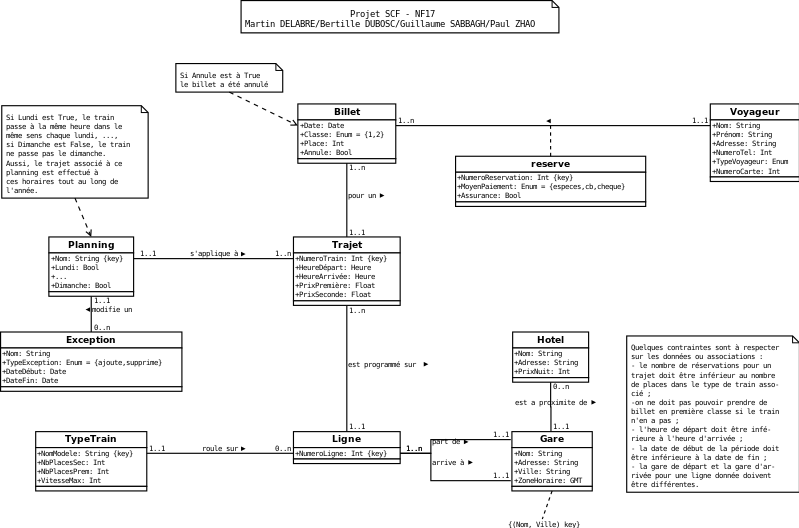
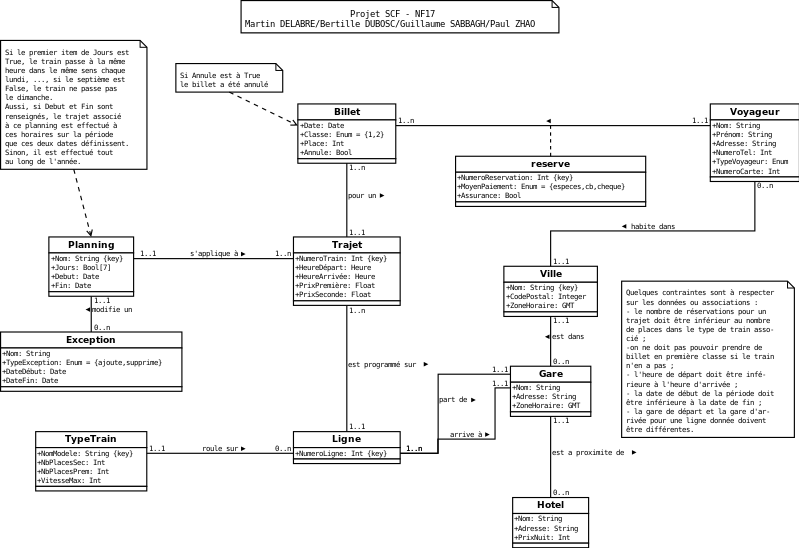
Modification MCD et NdC

diff --git a/README.md b/README.md
@@ -13,29 +13,102 @@ vim model/db_info.php # N'importe quel autre éditeur de texte fonctionne aussi
 # Préremplir la BDD en exécutant sql/populate.sql
 ```
 
-## MCD
+## Note de clarification
+### Contexte du projet
+La SCF nous demande de mettre en place un système pour gérer ses gares, ses lignes, ses trains et la planification des trajets. Elle veut qu’il soit accessible aussi pour ses usager⋅e⋅s afin de réserver des billets et de consulter les hôtels à proximité de la gare d’arrivée, entre autres besoins. De plus, elle veut pouvoir obtenir par le biais de ce système des statistiques sur les trajets réservés grâce à celui-ci.
 
+### Objectifs et livrables de l’étude
+Nous proposons de construire une base de données pour formaliser et stocker les informations nécessaires à la bonne marche de ce système. Nous livrerons aussi une application de démonstration qui permet d’interroger cette base de données de façon sûre et intuitive. Les requêtes passées par cette interface permettront d’enrichir la base de données en ajoutant des informations mais aussi de modifier ou de supprimer celles-ci et de les afficher ou de les agréger pour en faire des statistiques.
+
+### Moyens mis en œuvre
+Ces moyens sont avant tout humains. À cette note de clarification est joint un *product backlog* qui renseigne la quantité de travail nécessaire pour aboutir au système attendu.
+
+### Détails du système
+#### Liste de classes
+La SCF nous a indiqué ses besoins en termes de gares, de trains et de voyageurs. Pour pouvoir implémenter ces entités dans une base de données, il faut relever ce qui les identifie et quelles informations sont pertinentes. Ainsi, nous avons vu que les éléments suivants sont plus riches en informations et ne dépendent d’aucun autre :
+* les gares ;
+* les types de trains ;
+* les voyageur⋅euse⋅s.
+Comme toutes les gares ont, selon l’énoncé de la SCF, un nom, une adresse, une ville et une zone horaire, on peut créer un patron de gare, une Idée de gare au sens de Platon. C’est une classe dont on créera plusieurs instances que la SCF renseignera.
+
+La SCF veut aussi pouvoir manipuler d’autres types d’objets, qui sont définis à partir de ceux renseignés ci-dessus. Ce sont :
+* les lignes (définies par l’association entre deux gares et un type de train accepté) ;
+* les trajets (qui associent à une ligne un sens, des horaires, un prix et un numéro) ;
+* un planning (une fréquence dans la semaine sur une période donnée qui s’applique à un ou des trajets) ;
+* les réservations (des conteneurs qui regroupent plusieurs billets achetés en même temps et par le même moyen de paiement par un⋅e même usager⋅e) ;
+* les billets (qui associent une date, une classe et une place à un trajet et qui font partie d'une réservation).
+Ce sont aussi des classes puisqu’on veut pouvoir en créer plusieurs instances toutes calquées sur un modèle bien précis, mais elles sont dérivées des premières et reposent sur des associations avec celles-ci ou avec les premières classes secondaires de la liste.
+
+#### Choix techniques
+Lors du recueil des besoins, la SCF a laissé entendre que tous ses trains étaient sans arrêt. Nous nous appuierons sur cette donnée pour définir simplement une ligne en tant qu'association entre une gare de départ et une gare d'arrivée.
+
+La SCF voulait pouvoir changer les plannings des trains sur des jours spéciaux. Nous considérons que ces jours sont spéciaux pour tous les trajets et que ce sont donc les plannings qui sont modifiés. Si l’exception supprime une date, aucun des trajets reliés à ce planning n’aura lieu à cette date. Si elle ajoute une date, les trajets seront effectués même si cette date est en-dehors de la période ou tombe un jour de la semaine où ce trajet n’est pas effectué normalement. Avec ces choix, pour définir un trajet exceptionnel sur des horaires différents, il faut créer un trajet pour cet horaire, y associer un planning vide et les dates d’exception concernées.
+
+La SCF souhaite qu'un⋅e usager⋅e puisse annuler son billet ou le modifier pour partir à un autre jour. Nous considérons qu'une telle modification est en faite la suite d'une annulation et de la commande d'un autre billet. Nous ne prévoyons donc pas de fonctionnalité particulière.
+
+Pour éviter d'avoir des données redondantes, et puisqu'une ville ne peut être dans deux fuseaux horaires différents, nous créerons aussi une table pour les villes. De cette façon, deux gares desservant une même ville ne pourront avoir des zones horaires différentes.
+
+Enfin, et même si cela sort des prérogatives de la SCF, nous avons intégré les hôtels à notre modèle. Ce sont simplement l’association d’une adresse, d’un prix pour la nuit et d’une gare de référence. Cela étant, les taxis et les informations sur les transports publics changent trop rapidement, la SCF ne pourra pas les maintenir. Nous jugeons que les intégrer ne serait pas pertinent ou même possible dans une base de données.
+Si notre système contient toutes les informations listées ci-dessus, il est alors possible de déployer les fonctions souhaitées par la SCF à savoir :
+* tenue à jour des gares, lignes, trains et itinéraire pour leur usage interne ;
+* consultation des horaires, recherche de trajets, réservation ou annulation de billets pour les usager⋅e⋅s ;
+* calcul de statistiques sur les trains, pour toutes les personnes intéressées.
+
+## Product backlog
+|Rendu	|Priorité	|Tâches	|No de semaine	|Temps de travail   |
+|-------|-----------|-------|---------------|-------------------|
+|P1	|1	|Définition des fonctions et des classes requises	                                    |1	|2  |
+|	|2	|Rédaction de la note de clarification.	                                                |1	|1  |
+|	|3	|Élaboration du product backlog.	                                                    |1	|1  |
+|	|4	|Création du modèle conceptuel de données.	                                            |1	|2  |
+|P2	|5	|Transformation du MCD en MLD.                                                          |2	|2,5|
+|P3	|6	|Création d’une base de données.                                                        |3  |1  |
+|	|7	|Création des tables avec les attributs repérés dans le MLD.	                        |3	|1  |
+|	|8	|Ajout des contraintes sur les données.                                                 |3	|1  |
+|	|9	|Ajout de données dans les tables en vue de tests.                                      |3	|2  |
+|	|10	|Test du fonctionnement de la BDD                                                       |3	|2  |
+|	|11	|Création des requêtes pour consulter les trajets correspondant aux besoin des usagers.	|4	|3  |
+|	|12	|Création des requêtes pour réserver un billet.                                         |4	|2  |
+|	|13	|Test des requêtes créées.	                                                            |4	|2  |
+|	|14	|Création des requêtes pour supprimer des gares, types de trains, lignes, trains et trajets.	|5	|2    |
+|	|15	|Création des requêtes pour modifier ou annuler un billet.	                            |5	|3  |
+|	|16	|Création des requêtes pour s’assurer que le train ne se remplit pas au-delà de sa capacité.	|5	|2    |
+|	|17	|Création des requêtes pour mettre à jour le statut des voyageurs.	                    |6	|2  |
+|	|18	|Création des requêtes pour la gestion des dates d'exception.	                        |6	|3  |
+|	|19	|Création des requêtes pour empêcher ou faire payer les modifications de billets.	    |6	|3  |
+|	|20	|Création des requêtes pour afficher les hôtels à proximité.	                        |7	|2  |
+|	|21	|Création les requêtes pour obtenir des statistiques sur le fonctionnement de la société.	|7	|4   |
+|	|22	|Test des requêtes créées.	                                                            |7	|2  |
+|P4	|23	|Étude des bases de donné non-relationnelles.	                                        |8 et 9   |   |
+|	|24	|Création de la base de données non-relationnelles.	                                    |9 à 11   |   |
+|	|25	|Test de la base de données créée.                                                      |11	|4  |
+|P5	|26	|Création de l’interface pour la SCF.	                                                |12	|5  |
+|	|27	|Création de l’interface pour l’utilisateur.	                                        |12	|6  |
+|	|28	|Création de l’interface de statistiques.	                                            |13	|4  |
+|	|29	|Test des interfaces.	                                                                |13	|4  |
+|	|30	|Finalisation et soumission des applications.	                                        |13	|2  |
+
+
+## Modèle conceptuel de données
+Des besoins de la SCF et des interprétations que nous avons explicitées ci-dessus, nous avons construit le modèle de données suivant :
 ![UML](https://raw.githubusercontent.com/bertille-ddp/NF17/master/uml/MCD.png)
 
-## Note de clarification
-Plop
+## Modèle logique de données
+Il se traduit en un ensemble de tables, que nous pourront créer dans la base de données.
 
-
-## MLD
 Nous avons souligné les attributs non clés qui doivent être non nuls.
-
-```
-Ville(#Nom: string, CP: integer, _ZoneHoraire_: integer) avec CP clé
-Gare(#Nom: string, #Ville=>Ville.Nom, _Adresse_: string)
-Hotel(#NomH: string, #Ville=>Gare.Ville, _Adresse_: string, _NomG_=>Gare.Nom, PrixNuit: unsigned integer) avec (Adresse, Ville) clé
-TyeTrain(#Nom: string, _nbPlacesPrem_: unsigned integer, _nbPlacesSec_: unsigned integer, _vitesseMax_: unsigned integer)
+```markdown
+Ville(#Nom: string, CP: integer, __ZoneHoraire__: integer) avec CP clé
+Gare(#Nom: string, #Ville=>Ville.Nom, __Adresse__: string)
+Hotel(#NomH: string, #Ville=>Gare.Ville, __Adresse__: string, __NomG__=>Gare.Nom, PrixNuit: unsigned integer) avec (Adresse, Ville) clé
+TyeTrain(#Nom: string, __nbPlacesPrem__: unsigned integer, __nbPlacesSec__: unsigned integer, __vitesseMax__: unsigned integer)
 Ligne(#Numero: unsigned integer, NomGareDep=>Gare.Nom, VilleGareDep=>Gare.Ville, NomGareArr=>Gare.Nom, VilleGareArr=>Gare.Ville, ModeleTrain=>TypeTrain.Nom) avec (NomGareDep, VilleGareDep, NomGareArr, VilleGareArr, ModeleTrain) clé
-Planning(#Nom: string, Jours: boolean array, Debut: date, Fin: date) avec (Jours, Debut, Fin) clé
+Planning(#Nom: string, Jours: boolean array, Debut: date, Fin: date) avec (Jours, Debut, Fin) unique
 Exception(#Id: unsigned integer, Nom: string, Planning=>Planning.Nom, Ajoute: boolean, DateDebut: date, DateFin: date) avec (Planning, DateDebut, DateFin) clé et (Nom, Planning) clé
-Trajet(#Numero: unsigned int, Ligne=>Ligne.Numero, HeureDepart: time, HeureArrivee: time, PrixPrem: float, _PrixSec_: float, _Planning_=>Planning.nom) avec (HeureDepart, Ligne) et (HeureArrivee, Ligne) clés
-Voyageur(#Id: unsigned int, Nom: string, Prenom: string, NumeroTel: numeric, _TypeVoyageur_: string{'Occasionnel', 'Argent', 'Or', 'Platine'}, NumeroCarte: numeric, Adresse: string, Ville: string) avec (Nom, Prenom, Adresse, Ville) clé et NumeroCarte et NumeroTel uniques s'ils existent
-Reservation(#Numero: unsigned int, _Voyageur_=>Voyageur.id, _Assurance_: boolean, _MoyenPaiement_: string{'CB', 'Chèque', 'Espèces'})
-Billet(#Numero: int, Trajet=>Trajet.Numero, Date: date, _Classe_: int{1, 2}, Place: unsigned int, Annule: boolean, Reservation=>Reservation.Numero) avec (Trajet, Date, Place) clé
+Trajet(#Numero: unsigned int, Ligne=>Ligne.Numero, HeureDepart: time, HeureArrivee: time, PrixPrem: float, __PrixSec__: float, __Planning__=>Planning.nom) avec (HeureDepart, Ligne) et (HeureArrivee, Ligne) clés
+Voyageur(#Id: unsigned int, Nom: string, Prenom: string, NumeroTel: numeric, __TypeVoyageur__: string{'Occasionnel', 'Argent', 'Or', 'Platine'}, NumeroCarte: numeric, Adresse: string, Ville: string) avec (Nom, Prenom, Adresse, Ville) clé et NumeroCarte et NumeroTel uniques s'ils existent
+Reservation(#Numero: unsigned int, __Voyageur__=>Voyageur.id, __Assurance__: boolean, __MoyenPaiement__: string{'CB', 'Chèque', 'Espèces'})
+Billet(#Numero: int, Trajet=>Trajet.Numero, Date: date, __Classe__: int{1, 2}, Place: unsigned int, Annule: boolean, Reservation=>Reservation.Numero) avec (Trajet, Date, Place) clé
 ```
 
 ### Contraintes d'intégrité
@@ -52,5 +125,3 @@ Billet(#Numero: int, Trajet=>Trajet.Numero, Date: date, _Classe_: int{1, 2}, Pla
 
 ### Dépendances fonctionnelles
 #TODO
-
-## Product backlog
